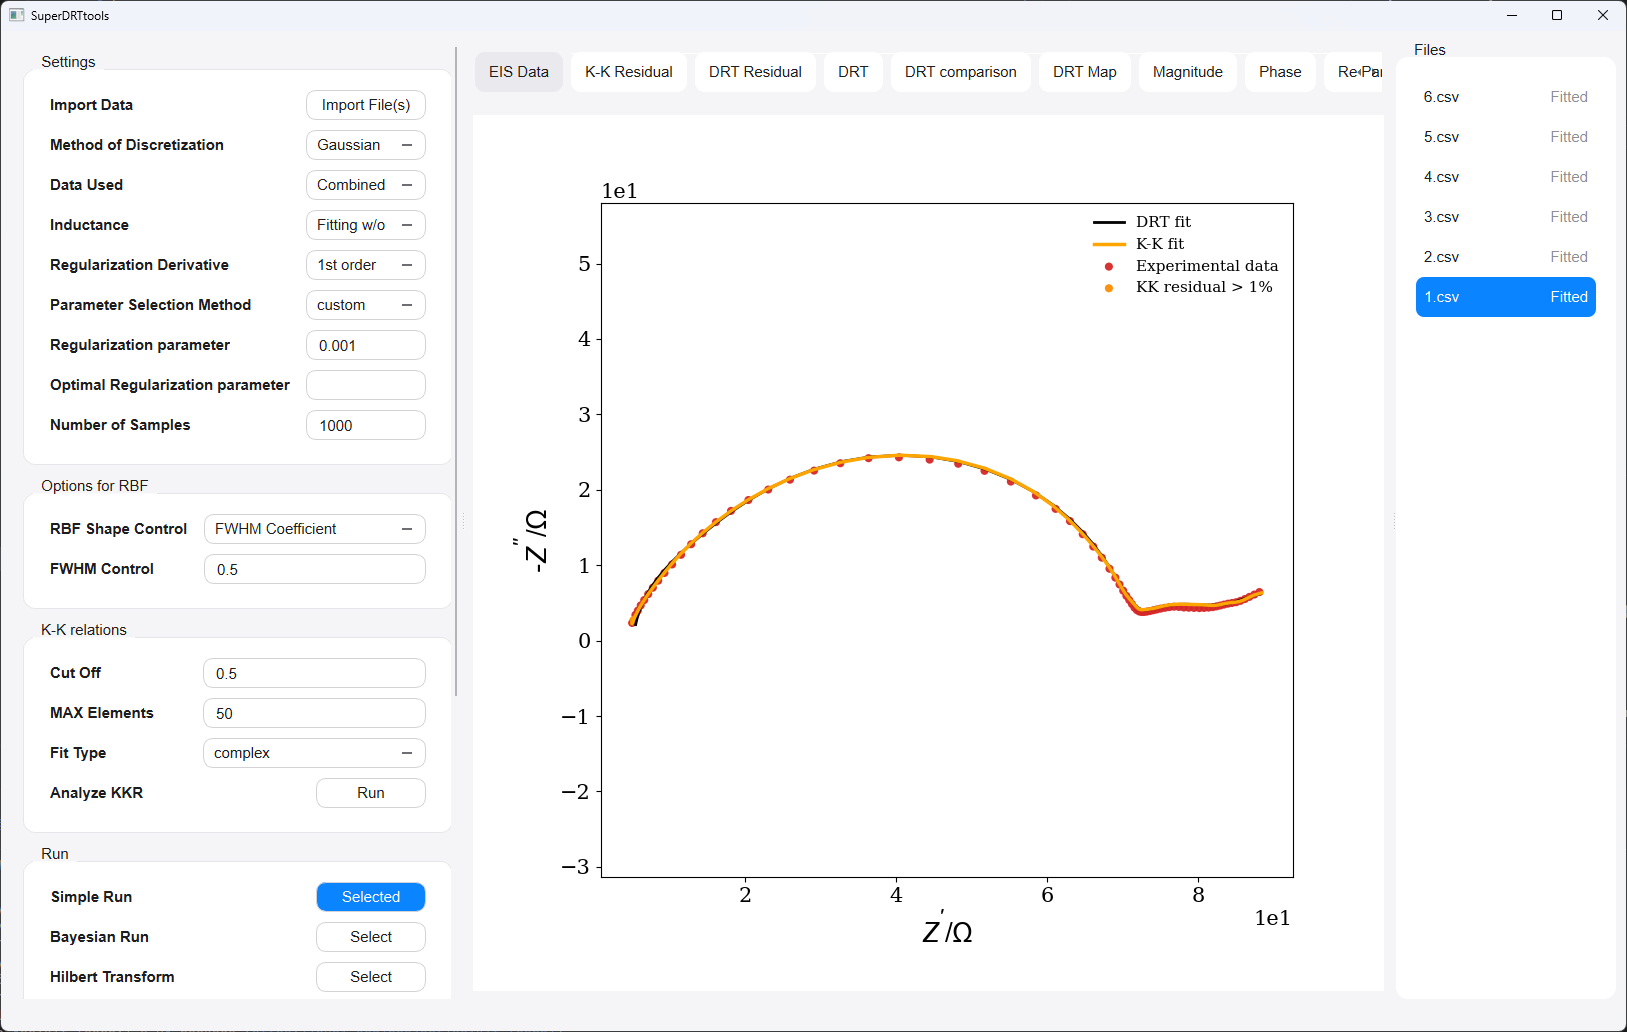
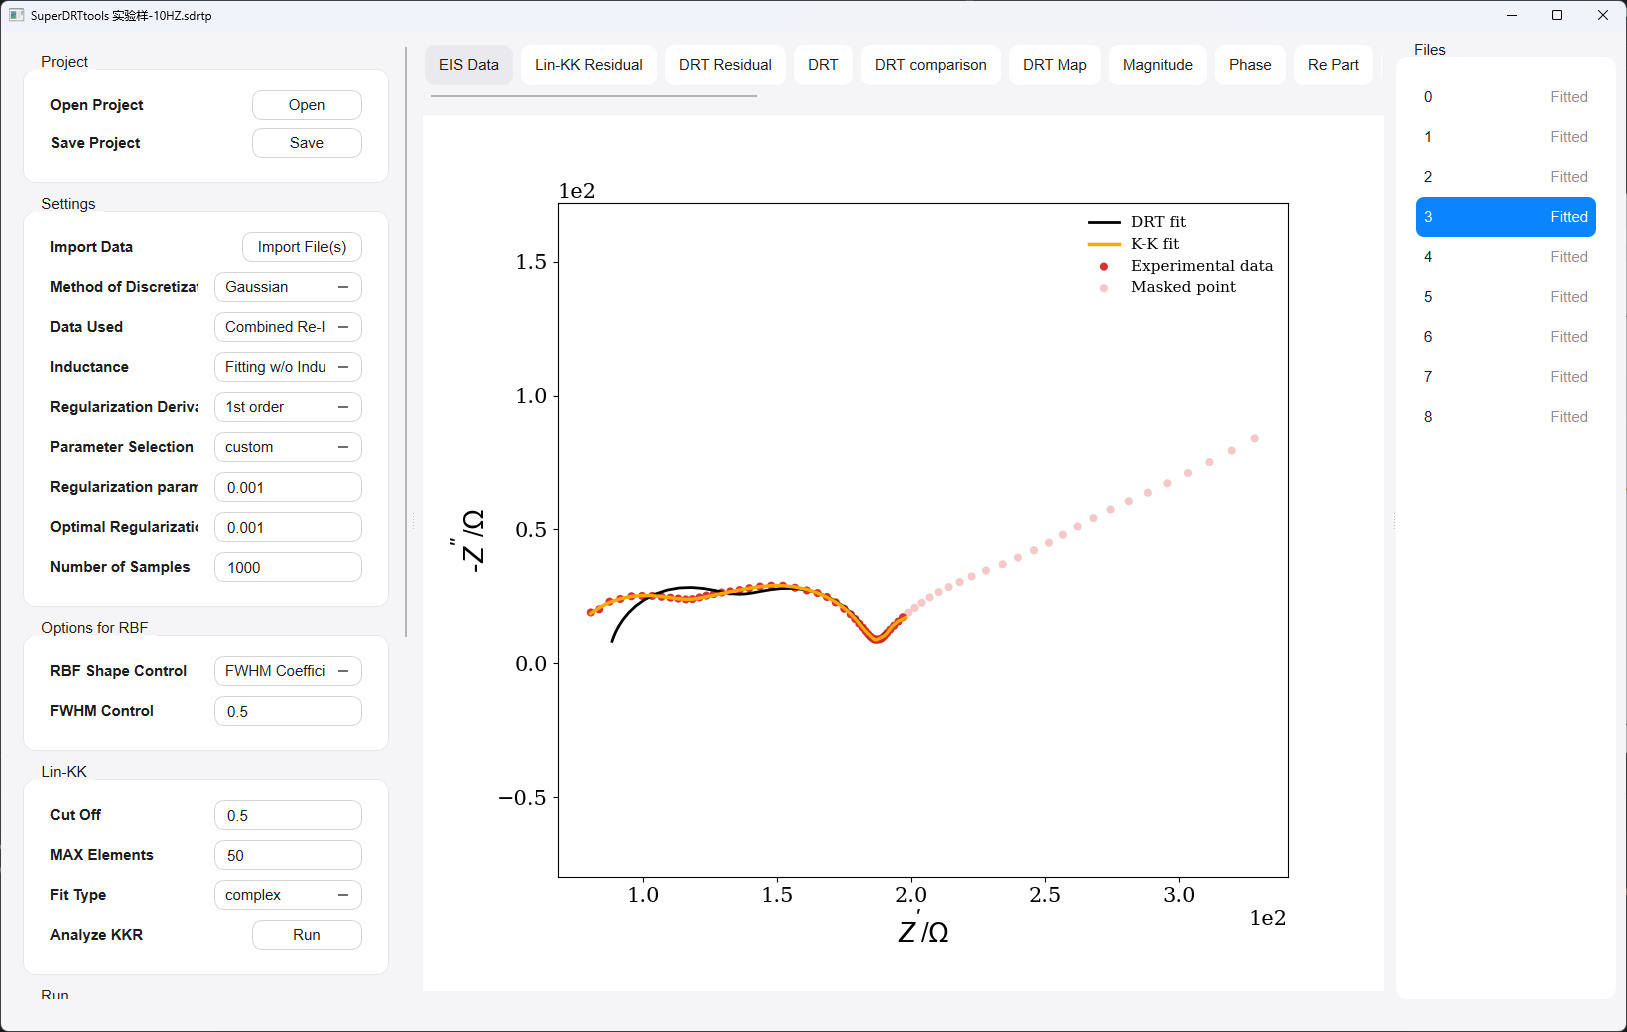
docs(readme): update documentation for recent features

diff --git a/README.md b/README.md
@@ -1,10 +1,10 @@
-# SuperDRTtools V1.1
+# SuperDRTtools V1.2
 
 <div align="center">
 
-**A modern GUI toolbox for DRT, KK validation, masking, and EIS quality assessment**
+**A modern GUI toolbox for DRT analysis, K-K validation, EIS masking, comparison, mapping, and batch processing**
 
-*Built for electrochemical impedance spectroscopy (EIS) analysis with an intuitive multi-file workflow.*
+*Designed for practical electrochemical impedance spectroscopy workflows with multi-file analysis, project management, and flexible data export.*
 
 ![Platform](https://img.shields.io/badge/platform-Windows%20%7C%20Python-blue)
 ![GUI](https://img.shields.io/badge/interface-PyQt5-2C7BE5)
@@ -17,19 +17,9 @@
 
 ## Overview
 
-**SuperDRTtools** is an enhanced GUI toolbox for analyzing **electrochemical impedance spectroscopy (EIS)** data via the **distribution of relaxation times (DRT)** framework.
+**SuperDRTtools** is an enhanced graphical toolbox for analyzing **electrochemical impedance spectroscopy (EIS)** data using the **distribution of relaxation times (DRT)** framework. It extends the original pyDRTtools workflow with multi-file import, Kramers-Kronig validation, masking, multiprocessing-based batch fitting, project-level saving and loading, interactive DRT comparison, DRT maps, and configurable EIS export.
 
-It extends the original pyDRTtools workflow with a more practical desktop-oriented experience for real experimental datasets, including:
-
-- multi-file import and batch fitting
-- Kramers–Kronig (K-K) validation based on `linKK`
-- residual-aware EIS inspection
-- point masking for suspicious data
-- DRT comparison and DRT map visualization
-- Hilbert-transform-based quality scoring
-- simple and Bayesian DRT workflows
-
-The goal of SuperDRTtools is not only to compute DRT, but also to make **data quality control, exception handling, and batch analysis** much easier in daily research use.
+The software is intended to make routine EIS analysis more efficient by combining data-quality inspection, fitting, visualization, comparison, and export in a single desktop workflow.
 
 ---
 
@@ -39,40 +29,44 @@ The goal of SuperDRTtools is not only to compute DRT, but also to make **data qu
 <tr>
 <td width="50%" valign="top">
 
-### DRT workflows
+### DRT and fitting
+- Simple, Bayesian, and Hilbert-transform workflows
 - Tikhonov-based DRT computation
-- Bayesian credible-interval workflow
-- Peak analysis / deconvolution tools
-- Multiple parameter-selection strategies
+- Peak analysis and deconvolution
+- Fit One and multiprocessing-based Fit All
+- Live fitting progress in the status bar
 
 </td>
 <td width="50%" valign="top">
 
-### Data-quality workflows
-- K-K validation with `linKK`
+### EIS quality control
+- K-K validation using `linKK`
 - K-K residual visualization
-- Residual-aware point highlighting
-- Manual and rule-based masking
+- Manual, box-selection, and rule-based masking
+- Apply masking criteria to one file or all files
+- Residual-aware EIS inspection
 
 </td>
 </tr>
 <tr>
 <td width="50%" valign="top">
 
-### Practical GUI features
-- Multi-file list and status tracking
-- Fit one / fit all workflows
-- DRT comparison overlay
-- DRT heatmap (DRT Map)
+### Multi-file workflow
+- Multi-file `.csv` / `.txt` import
+- Drag-and-drop support
+- Automatic handling of common impedance-sign conventions
+- File reordering, status tracking, and renaming
+- Project open, save, overwrite, and save-as workflows
 
 </td>
 <td width="50%" valign="top">
 
-### Inspection & export
-- EIS / magnitude / phase / Re / Im views
-- DRT residual visualization
-- Figure export
-- DRT and EIS result export
+### Visualization and export
+- EIS, magnitude, phase, real, and imaginary views
+- DRT residual, DRT comparison, and DRT Map
+- Linked file/curve selection in DRT comparison
+- Configurable DRT and EIS data export
+- Separate or merged CSV output
 
 </td>
 </tr>
@@ -85,55 +79,80 @@ The goal of SuperDRTtools is not only to compute DRT, but also to make **data qu
 ### Main interface
 ![Main UI](docs/images/main-ui-placeholder.png)
 
-### EIS Data with K-K fit / residual-aware points / masking
+### EIS data, K-K fitting, residual inspection, and masking
 ![EIS View](docs/images/eis-view-placeholder.png)
 
-### DRT comparison and DRT map
-![DRT Views](docs/images/drt-views-comparison.png)
-![DRT Views2](docs/images/drt-views-MAP.png)
+### DRT comparison and DRT Map
+![DRT Comparison](docs/images/drt-views-comparison.png)
+![DRT Map](docs/images/drt-views-MAP.png)
 
 ---
 
-## What SuperDRTtools can do
+## Main features
 
-### 1. Analyze EIS using DRT
-SuperDRTtools provides a Python GUI for computing the **distribution of relaxation times (DRT)** from impedance spectra. It supports classical regularized DRT workflows as well as Bayesian inference routes.
+### EIS import and file management
 
-### 2. Run K-K validation before interpretation
-The software includes a **Kramers–Kronig validation** workflow using `linKK`, allowing users to inspect whether imported EIS data are sufficiently self-consistent before DRT interpretation.
+- Import multiple EIS files in one session.
+- Support common `.csv` and `.txt` layouts.
+- Drag files directly into the interface.
+- Automatically normalize common `Z''` / `-Z''` input conventions.
+- Reorder spectra in the Files panel.
+- Rename the displayed file name from the right-click menu without changing the source file on disk.
 
-### 3. Inspect suspicious points directly in the EIS plot
-After K-K analysis, the **EIS Data** view can be used to inspect raw experimental points together with K-K information. Suspicious points can be visually flagged and masked for subsequent DRT fitting.
+### Lin-KK validation and masking
 
-### 4. Work with multiple files efficiently
-Instead of handling only one spectrum at a time, SuperDRTtools supports **multi-file import**, file ordering, fit-status tracking, batch fitting, DRT comparison, and DRT map visualization.
+- Run Kramers-Kronig validation using `linKK`.
+- Inspect K-K fitted data and residuals.
+- Mask individual points or select multiple points from the EIS plot.
+- Apply frequency-range and K-K residual-threshold rules to the current file or all imported files.
+- Clear masks for one file or all files.
 
-### 5. Evaluate data quality with Hilbert-transform tools
-The Hilbert-transform / Bayesian quality-assessment functionality from the original project is preserved for scoring EIS consistency and related regression outputs.
+### DRT fitting
+
+- Run Simple DRT, Bayesian DRT, Hilbert Transform, and peak-analysis workflows.
+- Fit one selected spectrum or fit multiple spectra in parallel.
+- Fit All uses multiprocessing so independent spectra can be processed concurrently.
+- Solver output is suppressed during batch fitting to keep the console readable.
+- The bottom status bar reports completed, remaining, skipped, and failed fitting tasks.
+
+### DRT comparison
+
+- Overlay DRT results from multiple files.
+- Click a curve or select its file in the Files panel to highlight the corresponding result.
+- The selected curve is shown in `#67001F`, while the remaining curves are faded without changing line width.
+
+### DRT Map
+
+- Display multi-file DRT results as a two-dimensional map.
+- Preserve the ordering of spectra shown in the Files panel.
+- Values above the configured maximum use the maximum color.
+- Values below the configured minimum use the minimum color instead of white.
+
+### Project management
+
+The Project card provides a simple save/load workflow:
+
+- **Open Project** loads a saved SuperDRTtools project.
+- **Save Project** creates a project when the current session has not yet been saved.
+- When a project is already open, **Save Project** overwrites the current project.
+- Right-click the Save button to use **Save Project As...** and preserve a different analysis state.
+- Unsaved changes are indicated in the window title and are checked before closing or opening another project.
+
+### EIS export
+
+The EIS export dialog supports configurable output:
+
+- Select exported columns: `Freq`, `Z'`, and `Z''`.
+- Select data types: initial data, masked data, Lin-KK fitted data, and DRT reconstructed data.
+- Optionally export Lin-KK and DRT residuals.
+- Use **Separate** mode to create one CSV per spectrum.
+- Use **Merged** mode to combine multiple spectra into one CSV using the displayed file names from the Files panel.
+- Exported arrays are aligned to the original frequency sequence; unavailable or masked values are left blank.
 
 ---
 
-## Current feature set
+## Available views
 
-### Core analysis modes
-- Simple DRT run
-- Bayesian DRT run
-- Hilbert Transform run
-- Peak analysis
-
-### K-K workflow
-- K-K validation using `linKK`
-- K-K residual plot
-- K-K fit overlay in EIS Data
-- Residual-aware point coloring
-
-### EIS masking workflow
-- Manual point masking from EIS Data
-- Box-selection for multiple points
-- Frequency-range / residual-threshold masking rules
-- Masked points shown with reduced opacity
-
-### Visualization
 - EIS Data
 - K-K Residual
 - Magnitude
@@ -146,29 +165,21 @@ The Hilbert-transform / Bayesian quality-assessment functionality from the origi
 - DRT Map
 - EIS Score
 
-### Multi-file workflow
-- Import multiple `.csv` / `.txt` files
-- File list with fitted / unfitted status
-- Fit One / Fit All
-- Reorder spectra in the file list
-- Batch-oriented visualization order
-
 ---
 
-## Recommended analysis logic
+## Recommended workflow
 
-A practical workflow for impedance analysis in SuperDRTtools is:
+1. Import one or more EIS datasets.
+2. Check the inductance setting and input convention.
+3. Run K-K validation.
+4. Inspect K-K residuals and suspicious points in **EIS Data**.
+5. Mask abnormal points when necessary.
+6. Re-run K-K validation after changing the retained data.
+7. Perform DRT fitting on the retained EIS data.
+8. Compare spectra using DRT comparison or DRT Map.
+9. Save the project and export the required DRT or EIS results.
 
-1. **Import EIS data**
-2. Adjust **Inductance** handling if needed
-3. Run **K-K validation**
-4. Inspect K-K residuals and suspicious points in **EIS Data**
-5. Mask obvious abnormal points if necessary
-6. Re-run **K-K validation** if you want updated residuals after masking
-7. Perform **DRT fitting using the remaining raw data**
-
-### Important note
-SuperDRTtools is configured so that **DRT fitting is performed on the current raw / retained EIS data**, not on K-K-fitted data. K-K is used as a **validation and inspection step**, not as the default DRT input replacement.
+> **Important:** DRT fitting uses the current retained EIS data. Lin-KK fitting is used for validation and inspection; it does not replace the DRT input by default.
 
 ---
 
@@ -176,12 +187,10 @@ SuperDRTtools is configured so that **DRT fitting is performed on the current ra
 
 ### Requirements
 
-To install and run SuperDRTtools, you need:
-
 - Python >= 3
 - A desktop environment capable of running PyQt5
 
-### Recommended environment setup (Anaconda)
+### Recommended Anaconda environment
 
 ```bash
 conda create --name SuperDRTtools python=3.10 pip ipython pandas matplotlib scikit-learn spyder
@@ -189,15 +198,13 @@ conda activate SuperDRTtools
 pip install cvxopt PyQt5 impedance pyinstaller
 ```
 
-If your local package structure requires it, also make sure the project dependencies used by the original pyDRTtools codebase are installed in the same environment.
+Install any additional dependencies required by the original pyDRTtools modules in the same environment.
 
 ---
 
 ## Quick start
 
-### Run from source
-
-From the project root:
+Run the application from the project root:
 
 ```bash
 python launch.py
@@ -207,8 +214,6 @@ python launch.py
 
 ## Project structure
 
-A typical project layout is expected to look like this:
-
 ```text
 SuperDRTtools/
 ├─ launch.py
@@ -216,6 +221,7 @@ SuperDRTtools/
 │  ├─ __init__.py
 │  ├─ GUI.py
 │  ├─ layout.py
+│  ├─ project_io.py
 │  ├─ basics.py
 │  ├─ parameter_selection.py
 │  ├─ runs.py
@@ -230,33 +236,27 @@ SuperDRTtools/
 
 ## Packaging to EXE
 
-You can package SuperDRTtools into a Windows executable using **PyInstaller**.
-
-### Basic command
+SuperDRTtools can be packaged as a Windows executable with PyInstaller:
 
 ```bash
 python -m PyInstaller --noconfirm --clean --windowed --add-data "launchImg/launch.png;launchImg" --splash launchImg\launch.png --onefile --name SuperDRTtools launch.py
 ```
 
+When using multiprocessing-based Fit All in a packaged Windows application, keep the application entry point protected by the standard `if __name__ == "__main__":` block.
+
 ---
 
 ## User manual
 
-For detailed usage guidance, installation notes, and background information, please consult the user manual:
+For detailed usage guidance, installation notes, and background information, see:
 
-- [manual](docs/manual/pyDRTtools_manual.pdf)
+- [SuperDRTtools manual](docs/manual/pyDRTtools_manual.pdf)
 
 ---
 
-## Why this project may be useful
+## Why use SuperDRTtools?
 
-SuperDRTtools is designed for users who want more than a minimal DRT GUI. It is especially useful if you need to:
-
-- inspect and clean real experimental EIS datasets
-- compare many impedance spectra efficiently
-- combine K-K validation with DRT interpretation
-- work with Bayesian and HT-based quality-assessment workflows
-- prepare figures and exported results for research use
+SuperDRTtools is designed for researchers who need to inspect, fit, compare, organize, save, and export real EIS datasets within one interface. It is especially useful for multi-spectrum experiments where data validation, masking, batch DRT fitting, consistent visualization, and reproducible project states are required.
 
 ---
 
